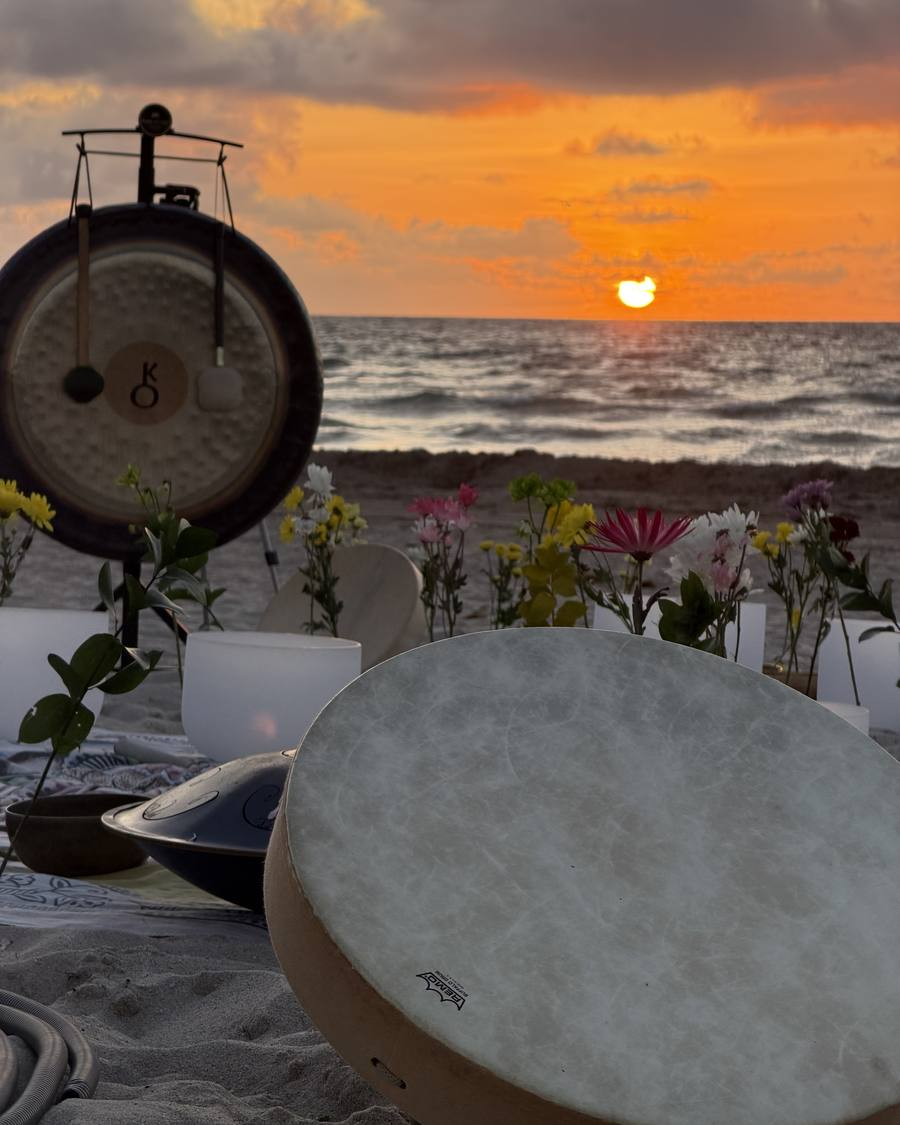
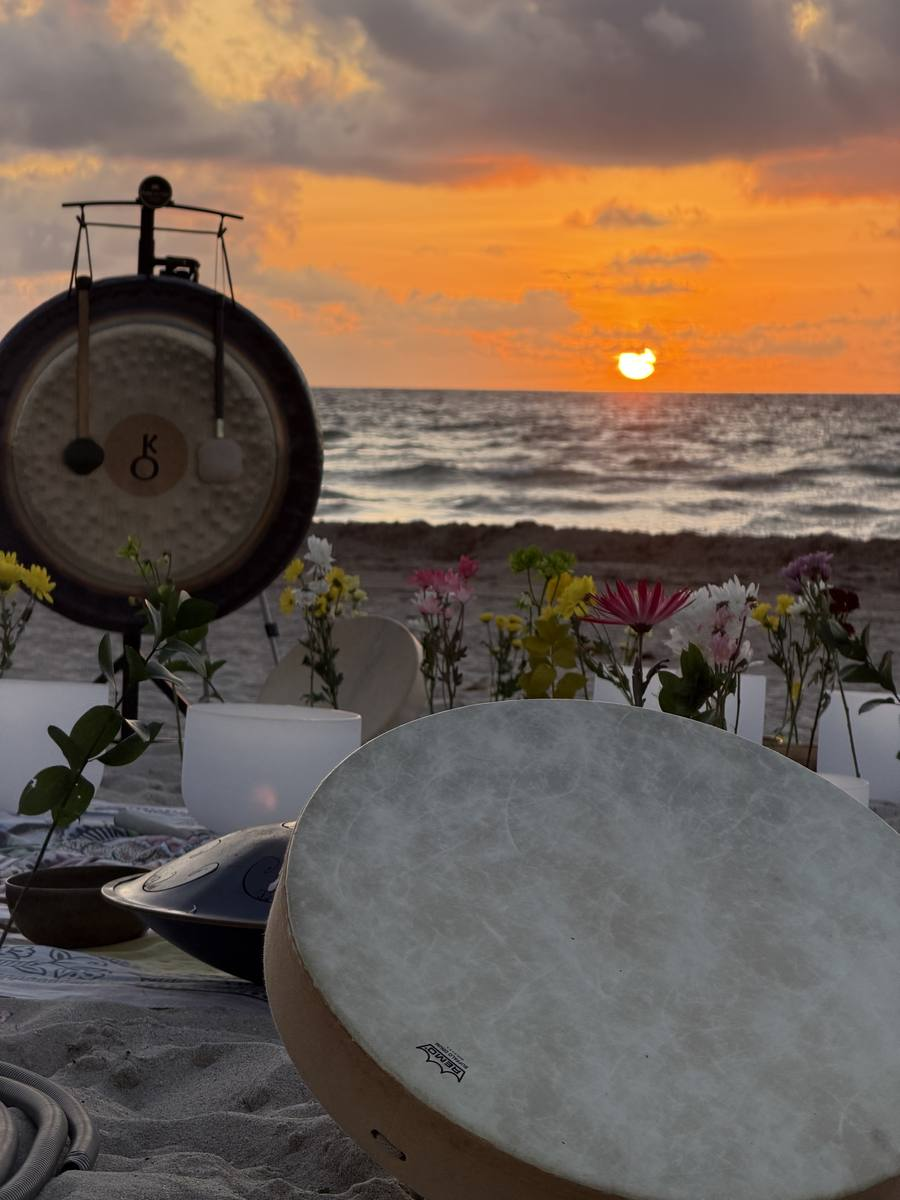
Larger evening arch

diff --git a/events/descanso-del-padre/index.html b/events/descanso-del-padre/index.html
@@ -103,8 +103,8 @@ header{position:absolute;top:0;left:0;right:0;z-index:10}
 .ev-row p{color:var(--cocoa);align-self:center}
 @media(max-width:700px){.ev-row{grid-template-columns:1fr;gap:.5rem}}
 
-.evening-grid{display:grid;grid-template-columns:1.25fr .75fr;gap:4rem;align-items:center}
-.evening-photo .arch{aspect-ratio:1/1.25;box-shadow:0 0 0 1px var(--clay-deep), 0 22px 44px rgba(74,56,44,.14)}
+.evening-grid{display:grid;grid-template-columns:1.05fr .95fr;gap:3.5rem;align-items:center}
+.evening-photo .arch{aspect-ratio:1/1.33;box-shadow:0 0 0 1px var(--clay-deep), 0 22px 44px rgba(74,56,44,.14)}
 .evening-photo figcaption{margin-top:1rem;font-size:.78rem;letter-spacing:.22em;text-transform:uppercase;color:var(--clay-deep);font-weight:600;text-align:center}
 @media(max-width:860px){.evening-grid{grid-template-columns:1fr;gap:3rem}.evening-photo{max-width:340px;margin:0 auto}}
 .offer{background:var(--sand-light);padding:8rem 0;text-align:center}